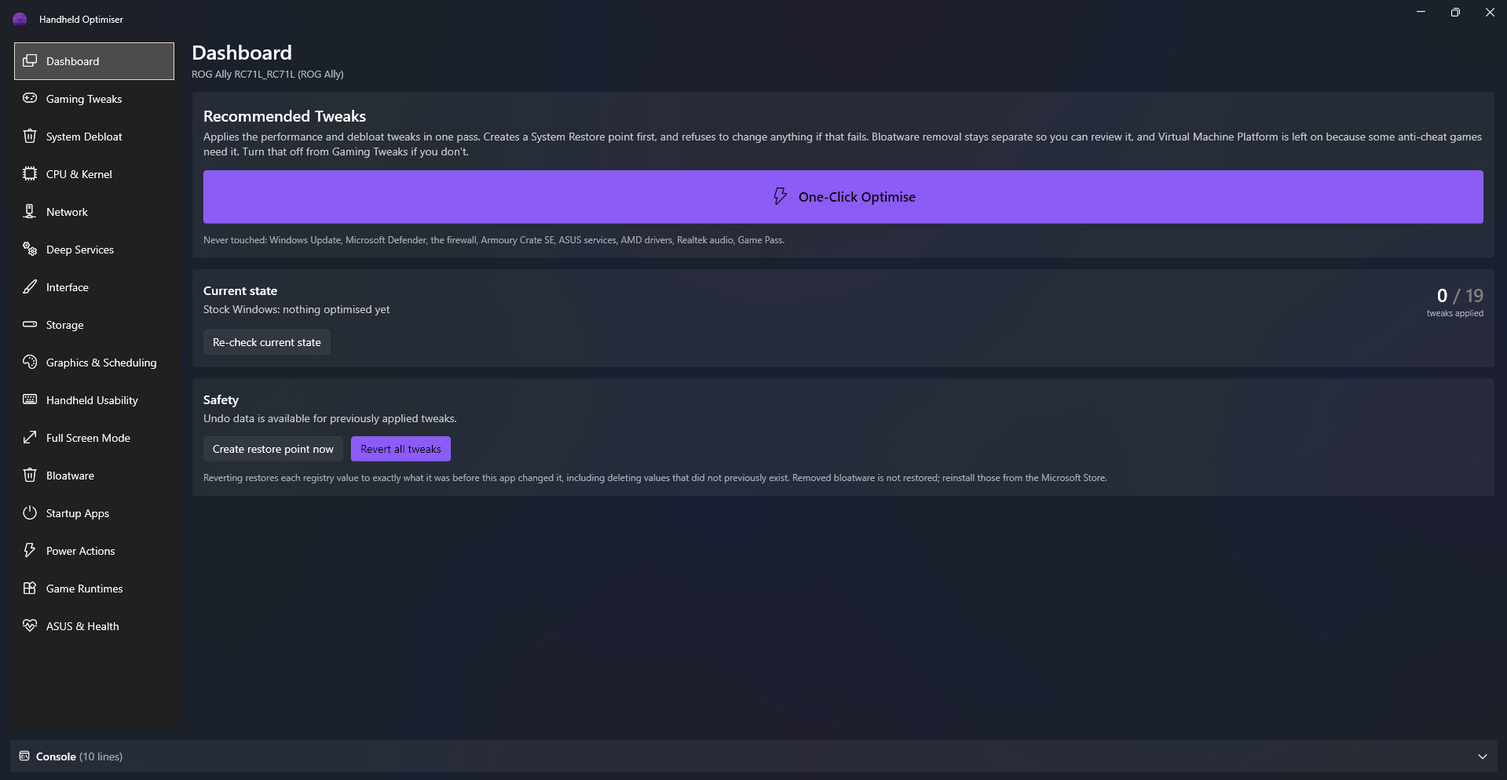
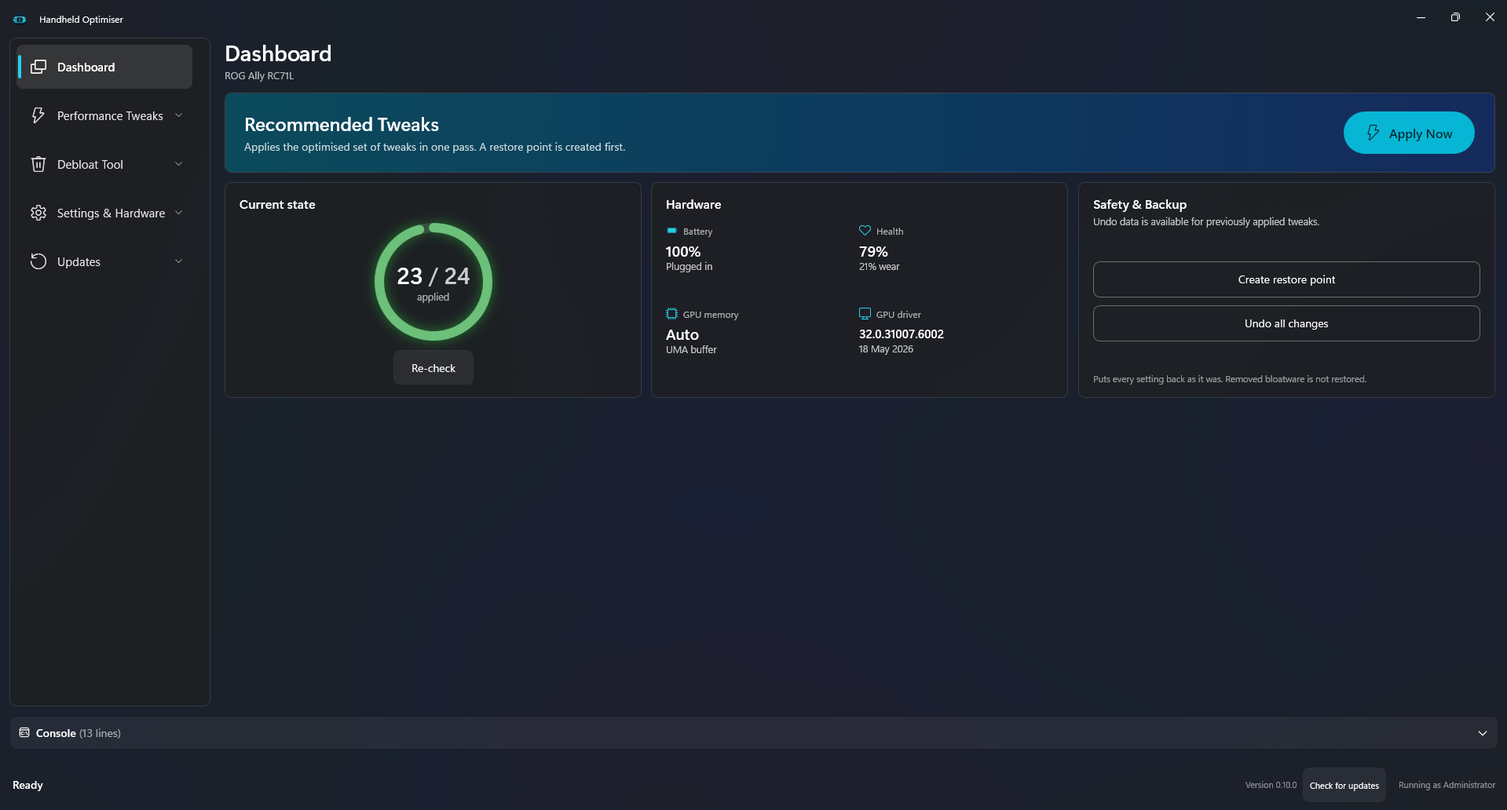
Shorten the README and replace its screenshots (#18)
The README is about a third of its length: the feature lists are tables and short bullets in place of a paragraph per feature. The dashboard screenshot shows the 0.10.0 sidebar and ring, a game library screenshot is added, and the Full Screen Mode screenshot, which showed the old four-option page, is removed.

diff --git a/README.md b/README.md
@@ -14,118 +14,89 @@
 </p>
 
 <p align="center">
-  <img src="docs/dashboard.png" alt="Handheld Optimiser dashboard with the Apply Now button, current state and safety options" width="900">
+  <img src="docs/dashboard.png" alt="Handheld Optimiser dashboard with the Apply Now button, the ring of applied tweaks, hardware readings and safety options" width="900">
 </p>
 
 ---
 
 ## What it does
 
-Windows ships set up for a desktop PC, not a 7-inch handheld. Handheld Optimiser applies the changes handheld owners usually make by hand from forum posts and scripts, from one touch-friendly app:
+Windows ships set up for a desktop PC, not a 7-inch handheld. Handheld Optimiser applies the changes handheld owners usually make by hand, from one touch-friendly app:
 
-- **Apply Now** on the Dashboard applies the recommended performance and debloat tweaks in a single pass.
-- **Individual toggles** for every tweak, grouped by area, each showing whether it is currently applied.
-- **Xbox mode home app**: make Windows' full screen experience open Steam Big Picture, Armoury Crate SE or any launcher you choose.
-- **One place for updates**: Windows Update, Microsoft Store apps and other apps, checked and updated together.
-- **Maintenance tools**: clear shader caches, free space with Compact OS, install missing game runtimes, and remove preinstalled apps.
+- **Apply Now** applies the recommended performance and debloat tweaks in a single pass.
+- **Individual toggles** for every tweak, each showing whether it is applied.
+- **A game library** for full screen mode, driven with the controller, that uses a fraction of Big Picture's memory.
+- **One place for updates**: Windows Update, Microsoft Store apps, other apps and game runtimes.
+- **Maintenance tools**: clear shader caches, free up space and remove preinstalled apps.
 
 ## Built to be undone
 
-Every system change goes through the same safety checks:
-
 - **A System Restore point is created first.** If Windows cannot create one, nothing is changed.
-- **Every tweak records the original setting**, so it can be reverted on its own or all at once with **Undo all changes** on the Dashboard, even after restarting or updating the app.
-- **Protected components are never touched**, whatever a tweak asks for: Windows Update, Microsoft Defender, the firewall, your handheld's own software (Armoury Crate SE and ASUS services, Legion Space and Lenovo services, MSI Center M), AMD and Intel drivers, Realtek audio and Game Pass. The one exception is the optional **Turn off update sharing with other PCs** switch, which changes a single Delivery Optimization setting; updates still download as normal.
-- **Trade-offs are shown up front.** Anything that lowers security or turns off a feature is labelled on its card and listed in the confirmation before it runs.
+- **Every tweak records the original setting**, so it can be reverted on its own or all at once with **Undo all changes**, even after a restart or an update.
+- **Protected components are never touched**: Windows Update, Microsoft Defender, the firewall, your handheld's own software, graphics and audio drivers, and Game Pass.
+- **Trade-offs are shown up front.** Anything that lowers security or turns off a feature is labelled and listed in the confirmation before it runs.
 
 ## Install
 
 1. Download **HandheldOptimiser-Setup-&lt;version&gt;.exe** from the [latest release](https://github.com/Vip3RAli/handheld-optimiser/releases/latest).
 2. Run it. Windows may show "Windows protected your PC" because the installer is not code-signed yet: choose **More info**, then **Run anyway**.
-3. Accept the administrator prompt. The app needs administrator rights to change system settings, so Windows asks each time it opens.
+3. Accept the administrator prompt. The app changes system settings, so Windows asks each time it opens.
 
-.NET is bundled, so nothing else needs installing. New versions install over the old one and keep your undo history.
+.NET is bundled. New versions install over the old one and keep your undo history.
 
-**Requirements:** Windows 10 (2004) or Windows 11, 64-bit. Full Screen Mode needs Windows 11 24H2 or later on a device with the Xbox full screen experience. Designed and tested on the ROG Ally. The app also recognises the ROG Xbox Ally, Lenovo Legion Go, MSI Claw, Steam Deck (running Windows), AYANEO, GPD and OneXPlayer handhelds, and the tweaks apply to any of them, but those devices have not been tested. A tweak that only fixes a fault on one device is badged with that device's name on any other.
+**Requirements:** Windows 10 (2004) or Windows 11, 64-bit. Full Screen Mode needs Windows 11 24H2 or later on a device with the Xbox full screen experience. Designed and tested on the ROG Ally. The ROG Xbox Ally, Legion Go, MSI Claw, Steam Deck (running Windows), AYANEO, GPD and OneXPlayer are recognised but untested.
 
-## Features
+## The app
 
-The sidebar has five sections, sized for a thumb on a handheld's touch screen. Tapping a section drops its pages down as a list under it, and a section reopens on the page you last used.
+Tap a section in the sidebar to drop down its pages.
 
 | Section | Pages |
 |---|---|
-| **Dashboard** | Apply Now, current state, hardware and safety |
+| **Dashboard** | Apply Now, how many recommended tweaks are applied, hardware readings, restore point and undo |
 | **Performance Tweaks** | Gaming Tweaks · CPU & Kernel · Graphics & Scheduling · Network · Storage · Sleep & Battery · Interface |
 | **Debloat Tool** | System Debloat · Deep Services · Bloatware · Startup Apps |
 | **Settings & Hardware** | Full Screen Mode · Power Actions · Device & System Health · Handheld Usability |
-| **Updates** | Updates (Windows Update, Microsoft Store apps and other apps in one list) · Game Runtimes |
+| **Updates** | Updates · Game Runtimes |
 
-### Dashboard
-A **Recommended Tweaks** banner with the **Apply Now** button, then three cards: a ring showing how many of the recommended tweaks are applied, the hardware readings, and the restore point and **Undo all changes** buttons.
+- **Apply Now** includes turning off **Memory Integrity**, usually the biggest frame rate gain on the Ally, at the cost of some protection against malicious drivers. The confirmation lists every trade-off first.
+- **Bloatware** removes preinstalled apps such as TikTok, Candy Crush and Copilot. Nothing is selected until you choose it.
+- **Power Actions** are one-off jobs: flush DNS, clear shader caches, deep cleanup and Compact OS.
+- **Device & System Health** checks that your handheld's own services are running and can re-enable any that other tools disabled.
+- **Updates** lists Windows, Store and winget updates together and installs the ones you tick. Driver updates are off unless you switch them on. Games, the BIOS and firmware are not listed.
 
-A **Hardware** card shows the battery's charge and live power draw in watts, its health (what it holds now against what it was built to hold), the memory set aside for graphics (the UMA buffer) and the installed graphics driver. It only reads; nothing on it changes a setting.
+## Full Screen Mode and the game library
 
-**Apply Now** includes turning off **Memory Integrity**, which is usually the biggest single frame rate gain on the Ally but lowers protection against malicious drivers. The confirmation lists it, and every other trade-off, before anything runs. Virtual Machine Platform is left on because some anti-cheat games need it.
-
-### Tweak pages
-
-| Page | Tweaks |
-|---|---|
-| **Gaming Tweaks** | Disable Memory Integrity (HVCI) · Disable Virtual Machine Platform & VBS · Disable Game DVR background recording · Remove the Windows startup delay |
-| **System Debloat** | Disable telemetry · Disable web results in Start search · Disable Cortana & Copilot · Stop app suggestions and silent reinstalls · Hide ads in Start, Settings and File Explorer · Turn off Widgets · Stop Edge running in the background · Turn off activity history and tailored experiences · Turn off Windows Error Reporting · Turn off OneDrive · Stop Store apps running in the background |
-| **CPU & Kernel** | Maximise foreground priority, so the game gets the CPU ahead of background work |
-| **Network** | Disable network throttling · Disable the network data usage monitor · Turn off update sharing with other PCs |
-| **Deep Services** | Disable SysMain, Search Indexer, Print Spooler & Fax, Program Compatibility Assistant, Distributed Link Tracking, and other services a handheld does not use |
-| **Interface** | Instant menus · Disable edge swipe gestures · Disable transparency and window animations |
-| **Storage** | Disable last access timestamps · Disable 8.3 short file names · Turn off reserved storage |
-| **Graphics & Scheduling** | Force Game Mode on · Optimise windowed and borderless games · Enable hardware-accelerated GPU scheduling |
-| **Handheld Usability** | Disable the Sticky Keys and Filter Keys shortcuts · Disable power throttling |
-| **Sleep & Battery** | Hibernate after 15 minutes of sleep · Turn Wi-Fi off during sleep · Only the power button wakes the handheld · Turn off the SD card reader (ROG Ally only) · Turn off Fast Startup |
-| **Full Screen Mode** | Choose the home app · Use Handheld Optimiser as the home app · Enter full screen mode at sign-in |
-
-### Full Screen Mode (Xbox mode home app)
-
-Windows 11's full screen experience normally opens the Xbox app. Handheld Optimiser can replace it with the app you actually use:
+Windows 11's full screen experience normally opens the Xbox app. Handheld Optimiser can open its own game library there, or Steam Big Picture, Armoury Crate SE or any other launcher.
 
 <p align="center">
-  <img src="docs/full-screen-mode.png" alt="Full Screen Mode page with the home app choices and the two toggles" width="900">
+  <img src="docs/game-library.jpg" alt="The game library with the Games, Apps and Not installed tabs, a row of game covers and the selected game's artwork as the background" width="900">
 </p>
 
-1. Open **Full Screen Mode** and choose **Handheld Optimiser library** or **Another launcher**. Another launcher then offers **Steam Big Picture**, **Armoury Crate SE**, or **Another app** (any program or shortcut, such as Playnite).
+1. Open **Full Screen Mode** and choose **Handheld Optimiser library** or **Another launcher**.
 2. Switch on **Use Handheld Optimiser as the full screen home app**.
 3. Optionally switch on **Enter full screen mode at sign-in** to boot straight into it like a console.
 
-Handheld Optimiser then appears under **Settings > Gaming > Xbox mode > Choose home app**. Your choice can be changed at any time and applies the next time the home app opens. If the chosen app cannot start, the Xbox app opens instead, so you never land on a blank screen.
+If the chosen app cannot start, the Xbox app opens instead. **Game Library** in the Start menu opens the library without changing your home app.
 
-#### Handheld Optimiser library
+The library finds installed games from **Steam**, **Xbox / PC Game Pass**, **Epic Games**, **Battle.net**, **GOG**, the **EA App** and **Ubisoft Connect**, plus programs you add and games in your ROM folders.
 
-A lightweight game library that replaces Big Picture as the home screen. It finds installed games from **Steam**, **Xbox / PC Game Pass**, **Epic Games**, **Battle.net**, **GOG**, the **EA App** and **Ubisoft Connect**, plus any program you add and the games in your ROM folders, shows them as one grid with your favourites and then the game you played last first, and is driven with the controller (d-pad or left stick to move, **A** to play, **Y** for quick settings) or by touch. The top bar shows the battery level, whether it is charging, and the Wi-Fi signal beside the clock.
+| Feature | What it does |
+|---|---|
+| **Tabs** | Games, Favourites, one per store, Apps and Not installed. **LB / RB** switch between them. |
+| **Quick settings** (**Y**) | Volume, brightness, power mode, resolution and refresh rate. |
+| **Quick actions** (**X**) | Favourite or hide a game, set its game profile, launch arguments or artwork. |
+| **Game profiles** | A power mode, resolution, refresh rate and brightness per game, put back when it closes. |
+| **Continue playing** | Your last game as a wide card above the grid, with play time tracked for every game. |
+| **Quick Resume** | The home button pauses the game behind the library, and **A** carries on where you left off. Games with anti-cheat are never paused. |
+| **Play and Sleep** | Close background programs and store apps around a game, and go back to your game after sleep. |
+| **Docked mode** | A layout and zoom of its own on a TV or monitor. |
+| **Not installed** | Games you own on Steam, Epic and GOG, ready to install. Steam needs your own free Web API key. |
+| **Game deals** | An optional row of games on sale, from IsThereAnyDeal with your own free API key. |
+| **Emulators** | Games from your ROM folders, including EmuDeck's and RetroBat's, in the emulator found for each console. |
+| **Quick Tweaks** | Clear temporary files, shader caches and the Recycle Bin, and switch startup apps. |
+| **Power** (**View**) | Sleep, hibernate, restart or shut down. |
 
-- **Game Library** in the Start menu opens it directly, without changing your full screen home app.
-- **LB / RB** filter the grid by store (Games, Favourites, Steam, Xbox and so on). The tabs can also be tapped. **Up** from the top row of games reaches the quick settings, settings and power buttons in the top bar, and **A** opens the one in focus; they are also on **Y**, **Menu** and **View**.
-- **X** on a game (or press and hold on touch) opens its quick actions: add it to favourites, set its game profile, set extra launch arguments, open the install folder, view the executable's properties, correct its background artwork, or hide it. Launch arguments apply to Steam and GOG games and to programs you added as an exe or a shortcut to one; the other stores start their games themselves and take none.
-- **Favourites** sit at the front of the grid with a star on their tile, and get their own tab in the store filter.
-- **Hide from library** takes a game off the grid, for launchers, tools and demos you never play. Switch on **Show hidden games** under **Settings > Library View Options** to see them again, faded, and choose **Show in library** to bring one back.
-- **Quick settings** (the sliders button in the top bar, or **Y**) work like Armoury Crate's Command Center: the volume (**A** mutes), the screen brightness, Windows' power mode (best power efficiency, balanced or best performance), the screen's resolution (a lower one, such as 1280 x 720, takes load off the graphics and stretches the battery) and its refresh rate, such as 60 or 120 Hz. Left and right adjust a row; **A** also steps it on, for touch. **Refresh library** looks for newly installed games (F5 on a keyboard does too). None of these needs administrator rights or ASUS software. Power mode is Windows' own setting, not Armoury Crate's wattage modes, and Windows only offers it while the Balanced power plan is active. Brightness only works on the built-in screen.
-- **Game profile** in a game's quick actions picks a power mode, resolution, refresh rate and brightness for that game, and whether background programs are closed while it plays. They switch over when the game starts from the library, and your own settings come back as soon as the game has closed. Anything left on **Don't change** stays as it is.
-- **Play time.** The library times every game it starts. Steam games also take Steam's own count, so their time goes back before the library. A game's quick actions show how long it has been played and when it was last played, and **Sort games** under **Settings > Library View Options** orders the grid by recently played, most played or A to Z.
-- **Continue playing.** The game you played last sits above the grid as a wide card with its artwork, with the few you played before it beside it, whatever order the grid is in. Up from the grid's first row reaches it. Switch it off under **Settings > Library View Options**.
-- **Two layouts.** **Layout** under **Settings > Library View Options** picks the grid, which scrolls down, or a row: one line of bigger games that scrolls across, with the focused game's name and play time above it, like a console's home screen.
-- **Play and Sleep** in the settings closes background programs as a game starts (OneDrive, Teams, Google Drive, Dropbox, Phone Link and Widgets to begin with; Discord, Spotify or any running program can be added) and opens them again once it has closed. Only programs running as you are closed, never Windows itself or a service. **Close background programs** in quick settings does the same on the spot. **Close store apps after playing** closes Steam, the Epic Games Launcher, the EA app and the rest once their game has closed, either only when the game opened them or always; Steam is asked to shut down, so it finishes syncing saves first. **Store apps at startup** stops them starting with Windows.
-- **Quick Resume.** Pressing the home button during a game pauses it while the library is in front, so it stops using the processor, the graphics and the battery. **A** on it (or on the Continue playing card) carries on exactly where you left off, and so does going back to it with Alt+Tab. A paused game still holds its memory, so only one is kept: starting another game asks for a second press, then closes the paused one first, and anything not saved in it is lost. **Close game** in its quick actions closes it on the spot. A paused game lives through sleep and hibernate, but not a restart or shut down. Games with anti-cheat (Easy Anti-Cheat, BattlEye, EA Javelin and others) are never paused, since pausing one could get you thrown off the server, and neither is a game running as administrator, which Windows will not let the library pause. Switch it off under **Settings > Play and Sleep**.
-- **Back to your game after sleep.** If a game is running when the device sleeps, waking it goes straight back to the game, even if you chose **Sleep** from the library's power menu. Pressing the home button after waking still lands on the library. Switch it off under **Settings > Play and Sleep**.
-- **Docked mode.** When the library is on a TV or monitor (docked, or the screen duplicated to one), it switches to a layout and size of its own, and back again when it is unplugged. By default it uses the row layout and fits itself to the screen, with as many games across as on the handheld; **Settings > Docked mode** picks the layout (row or grid) and a fixed zoom from 100% to 200%, or switches docked mode off.
-- **Games not installed.** A **Not installed** tab at the end of the tab strip (LB / RB) lists the games you own but have not installed, and **A** on one opens its store's install page: Steam's install dialog, the Epic Games Launcher, or the game's page in GOG Galaxy. Epic's and GOG Galaxy's lists are read from this device. Steam only lists the games you own through its Web API, so enter a free key from [steamcommunity.com/dev/apikey](https://steamcommunity.com/dev/apikey) under **Settings > Games not installed**; the list is asked for again at most twice a day, and your Steam profile's **Game details** must be public. Covers come from the stores' own image servers. Only the covers near the focus are kept in memory, so a library of thousands of games stays light.
-- **Game deals.** Switch on **Settings > Game deals** for a **Deals** row below the games on the Games tab, in the grid layout: games on sale at Steam, GOG, Epic, Humble, Fanatical and other stores, in your Windows region's currency, with the discount and a mark on prices that are the lowest ever. Prices come from [IsThereAnyDeal](https://isthereanydeal.com), which needs your own free API key: register an app at [isthereanydeal.com/apps/my](https://isthereanydeal.com/apps/my/) and paste its key under **Game deals**. The key stays on this device and is never part of the app. With **Wishlist deals first** on and a Steam Web API key set (see Games not installed), the games on your Steam wishlist that are on sale come first; Steam only shares a wishlist when your profile's **Game details** are public. **A** on a deal opens the store page in your browser. The deals are asked for when the library comes to the front with no game running, at most every 6 hours, and kept in `%LOCALAPPDATA%\HandheldOptimiser\deals` with their banners; nothing runs in the background, and the banners are let go while a game is in front.
-- **Emulators** in the settings lists games from ROM folders: a `ROMs` folder at the root of any drive or in your user folder, EmuDeck's and RetroBat's folders, and any folder you add. Inside, each console has its own folder named as EmuDeck, ES-DE and RetroBat name them (`snes`, `psx`, `ps2`, `gc` and so on). Each console plays in the first emulator found for it, standalone ones first (Dolphin, PCSX2, DuckStation, PPSSPP, Cemu, Ryujinx, Citron, Eden, Sudachi, melonDS, Azahar, Flycast, xemu) and then RetroArch with the best core it has; left and right on a console's row pick another. Emulators are looked for in the Start menu, your library, EmuDeck's and RetroBat's folders and the usual install folders, and **Find an emulator** points to one anywhere else. Multi-disc games with an `.m3u` playlist, and `.cue` games with their tracks, show once.
-- **Quick Tweaks** in the settings clears temporary files older than a day, the graphics drivers' shader caches and the Recycle Bin, each on a second press, shows free space on each drive, and switches startup apps on and off with the same switch Task Manager uses. Startup apps set for all users, and everything else that needs administrator rights, stay in the main app.
-- **Add a program** in the settings lists the programs in your Start menu, so an emulator or a game from another store can be added with the controller, or **Browse for a program** picks any exe or shortcut by touch or mouse. Added programs show under **Added by you**, get a cover from SteamGridDB like other games when a key is set, and **Remove from library** in their quick actions takes them off again. Nothing on disk is changed.
-- **Apps.** Programs that are not games, such as Chrome, Discord or Spotify, have their own **Apps** tab after the store tabs (LB / RB), away from the games. Add one from the Start menu with **Add a program** while the Apps tab is open, and it goes there. Well known apps (browsers, chat apps, media players and the stores' own launchers) go there wherever they are added from, including ones added before Apps existed. **Move to games** or **Move to Apps** in an added program's quick actions moves it across. Opening an app changes nothing else: no game profile, no closing of background programs, no play time, and it never shows in Continue playing, so a game you are playing is left as it is. Apps keep their own icon rather than a cover from SteamGridDB.
-- The power button beside the gear (or **View** on the controller) opens the power menu: sleep, hibernate, restart or shut down. Hibernate is listed only when it is switched on in Windows. Restart and shut down ask for a second press, so a stray button cannot end a session.
-- The background is a gradient in the colours of the selected game's cover or icon, worked out on the device with nothing downloaded.
-- The gear in the top bar (or **Menu** on the controller) opens the library's settings, a short list with groups behind their own rows. **Art and Background** has the background (game colours, game artwork or plain), how strong the colours are, how blurred the artwork is (off, light, medium or strong), whether it sits at the top or the bottom of the screen, and the SteamGridDB key. **Library View Options** has the layout, Continue playing, and on / off switches for the battery and Wi-Fi display, the store filter, the quick actions and showing hidden games. **Docked mode** and **Games not installed** are covered above. **B** steps back from a group, and each group also has a **Back** row for touch. The list also has **Play and Sleep**, **Emulators** and **Quick Tweaks** (see above), **Add a program** (see above), **Launch Handheld Optimiser** to bring up the main app (Windows asks for administrator permission; if the app is already open it just comes to the front), and **Quit** to close the library.
-- Choose game artwork there to show the game's whole banner artwork across the top or bottom of the screen, fading into its colours. Steam games use the artwork Steam already keeps on disk. For the other stores, enter a free [SteamGridDB](https://www.steamgriddb.com) API key and the library fetches each game's artwork once and keeps it in `%LOCALAPPDATA%\HandheldOptimiser\artwork`. Only then does the library contact SteamGridDB, sending the titles of those games to find them. Its other uses of the internet are the check for a newer release; for the Not installed tab, Steam's list of your games (only with your own key) and the stores' covers for games you have not installed; and, for the Deals row, IsThereAnyDeal's deals and banners and your Steam wishlist (only once switched on, with your own keys). A game with no artwork keeps its gradient. If a game gets the wrong picture or the wrong cover, **Background artwork** in its quick actions lets you give the title to look both up by.
-- **Box art for every store.** Steam games show the cover Steam keeps on disk. With a free [SteamGridDB](https://www.steamgriddb.com) API key entered, games from the other stores (Xbox and Game Pass, Epic, GOG, Battle.net, EA, Ubisoft) get a portrait cover too, in place of their icon. Covers are fetched once, a few at a time when the library opens, and kept in `%LOCALAPPDATA%\HandheldOptimiser\artwork`. This happens whatever background you chose: once a key is set, the titles of games without a cover are sent to SteamGridDB to find them. A game SteamGridDB has no cover for keeps its icon.
+Everything works with the controller or by touch. **Menu** opens the settings, and **Up** from the top row reaches the quick settings, settings and power buttons.
 
 | | RAM |
 |---|---|
@@ -133,72 +104,31 @@ A lightweight game library that replaces Big Picture as the home screen. It find
 | Library, open | about 115 MB |
 | Library, while a game runs | about 25 MB |
 
-Each store's own app still starts when one of its games needs it: Steam runs silently in the background (so Steam Input and the overlay still work), Epic opens minimised, Blizzard games go through Battle.net, and EA and Ubisoft games bring up the EA App and Ubisoft Connect. An EA or Ubisoft game bought on Steam or Epic is listed once, under the store it was bought from. Most GOG games are DRM-free and start directly, with no client at all. The library stays open behind the game, so quitting a game or pressing the home button lands back on it. While a game is in front, it stops reading the controller and gives its memory back to Windows.
+**Privacy.** The library only uses the internet to check for a newer release, and for the features you switch on with your own keys: artwork from [SteamGridDB](https://www.steamgriddb.com), your Steam game list and wishlist, store covers for games you have not installed, and deals from [IsThereAnyDeal](https://isthereanydeal.com). Keys stay on your device.
 
-Controller tips:
-
-- Keep the controller in **Gamepad** mode (Command Center in Armoury Crate SE). In Desktop mode the d-pad still works, as arrow keys, but the sticks turn into a mouse.
-- Steam can take over the Xbox button and third-party controllers while it runs. If the home button opens Steam, or an external controller moves the wrong way, turn off Steam's guide button setting under **Steam > Settings > Controller**, and turn off Steam Input for that controller.
-
-How it works: the app registers a small package that adds it to Windows' home app list and points at a lightweight launcher, which runs without administrator rights so full screen mode never shows a UAC prompt. Windows only accepts this kind of registration while developer mode is on and the package's certificate is trusted, so for the few seconds registration takes, developer mode is switched on and the certificate is trusted, then both are put back. No certificate is left installed. If Handheld Optimiser is closed midway, the next start finishes putting them back.
-
-**Updating from 0.4.0 or earlier:** those versions registered an unsigned package that Windows rejects after a restart, so full screen mode opened to a blank grey screen. Open **Full Screen Mode** and switch on **Use Handheld Optimiser as the full screen home app** once to replace it. If you are stuck on the grey screen, press Ctrl+Alt+Del, open Task Manager, choose **Run new task** and run `explorer` to get the desktop back.
-
-### Bloatware
-Remove preinstalled apps such as TikTok, Candy Crush, Disney+, Bing News and Copilot. Nothing is selected until you choose it, and apps you may want to keep are marked with a note. Store, Xbox, Game Pass, codec and vendor packages are protected.
-
-### Startup Apps
-Turn startup programs on or off, including 32-bit ones. Uses the same switch as Task Manager, so changes show up there too.
-
-### Power Actions
-One-off jobs, each run with a button:
-
-| Action | What it does |
-|---|---|
-| **Flush DNS & reset Winsock** | Fixes online games that cannot connect or suddenly lag |
-| **Clear shader caches** | Fixes stutter or graphical glitches after a driver update |
-| **Force deep cleanup** | Removes superseded Windows Update files, crash dumps and error reports |
-| **Compact OS** | Compresses Windows system files to free a few GB for games |
-| **Undo Compact OS** | Reverses it, after checking there is enough free space |
-
-### Game Runtimes
-Scans for the Visual C++, DirectX, .NET, XNA, OpenAL and PhysX runtimes games depend on, and installs or updates them through winget.
-
-### Device & System Health
-Checks that your handheld's own services (Armoury Crate on a ROG Ally, Legion Space on a Legion Go, MSI Center M on an MSI Claw) and the AMD, Realtek, Defender, Windows Update and Game Pass services are running, and can re-enable any that were disabled by other tools.
-
-### Updates
-Checks Windows Update, the Microsoft Store and winget at the same time and lists every waiting update in one place, ticked. **Update selected** installs them one after another: apps through winget first, then Store apps, then Windows updates, and says at the end if a restart is needed.
-
-- **Windows Update** uses the same Windows Update service as Settings. Optional preview updates are left out. Driver updates are only listed with **Include driver updates** switched on, because Windows Update sometimes offers a generic driver in place of the one the handheld's maker ships.
-- **Microsoft Store apps** are updated by the Store itself, which the page asks to update each chosen app. If the Store can't be asked from the app, the section says so and **Open the Store** takes you to its updates page.
-- **Other apps** are the desktop apps winget recognises, such as Steam, Discord and browsers. A System Restore point is made before any of them are updated. Apps winget doesn't know about don't appear.
-- **Skip** on a row leaves that update out of every check until you unskip it under **Skipped updates**.
-
-Games are not listed: Steam and the other launchers update their own. Neither are the BIOS or ASUS firmware, which Armoury Crate or MyASUS still handle.
+**Controller tips.** Keep the controller in **Gamepad** mode. If the home button opens Steam, turn off Steam's guide button setting under **Steam > Settings > Controller**.
 
 ## Updating
 
-From 0.3.0, the app checks for a newer release each time it starts, and **Check for updates** in the status bar checks on demand. When one is available, a banner offers **Update now**: the app downloads the installer, checks its signature, installs it and reopens by itself. Your applied tweaks and undo history are kept.
-
-From 0.7.1, the game library shows the same banner, and looks for a newer release when it opens and about once a day while it stays open. It only asks GitHub for the latest version number. **Update now** there (also the first row of the library's settings on the controller) opens the main app, which asks for administrator permission and then installs the update as above. The library never downloads or runs an installer itself.
-
-Every release is signed with the developer's own key, and the app refuses to install anything whose signature does not match, even a file that has been swapped on GitHub. Versions before 0.3.0 have no updater, so install 0.3.0 by hand once.
+The app checks for a newer release when it starts, and the library does the same. **Update now** downloads the installer, checks its signature, installs it and reopens. Your tweaks and undo history are kept. Every release is signed with the developer's key, and the app refuses anything whose signature does not match.
 
 ## Uninstalling
 
-Uninstall from **Settings > Apps > Installed apps**. Uninstalling removes the app but **does not undo tweaks**; use **Undo all changes** first if you want Windows put back as it was. Your undo history is kept, so reinstalling later can still revert everything. If Handheld Optimiser was your full screen home app, Windows goes back to the Xbox app.
+Uninstall from **Settings > Apps > Installed apps**. This removes the app but **does not undo tweaks**; use **Undo all changes** first if you want Windows put back as it was. Your undo history is kept, so reinstalling later can still revert everything.
 
 ## FAQ
 
 **Why does Windows ask for administrator permission every time?**
-Almost every change the app makes is machine-wide, so Windows requires it. The full screen home app launcher is separate and never asks.
+Almost every change the app makes is machine-wide. The game library is separate and never asks.
 
 **Why does Windows warn that the installer is unrecognised?**
-The installer is not signed with a paid code-signing certificate yet. The SHA-256 hash of each installer is listed in its release notes if you want to verify your download.
+The installer is not signed with a paid code-signing certificate yet. Each release lists the installer's SHA-256 hash if you want to verify your download.
 
 **Something went wrong. What do I do?**
-Use **Undo all changes** on the Dashboard, or roll back with the System Restore point the app created. Each session is logged to `%LOCALAPPDATA%\HandheldOptimiser\logs`, which is the most useful thing to attach to an issue.
+Use **Undo all changes** on the Dashboard, or roll back with the System Restore point the app created. Logs are in `%LOCALAPPDATA%\HandheldOptimiser\logs`; attach them to an issue.
+
+**Full screen mode opens to a blank grey screen.**
+This affected 0.4.0 and earlier. Open **Full Screen Mode** and switch on **Use Handheld Optimiser as the full screen home app** once to fix it.
 
 ## Building from source
 
@@ -209,31 +139,17 @@ winget install --id JRSoftware.InnoSetup -e --scope user
 .\installer\build-installer.ps1
 ```
 
-This publishes a self-contained build, packs the full screen home app registration, and writes `artifacts\HandheldOptimiser-Setup-<version>.exe`. The version comes from `<Version>` in `src\HandheldOptimiser\HandheldOptimiser.csproj`.
+This writes `artifacts\HandheldOptimiser-Setup-<version>.exe`. The version comes from `<Version>` in `src\HandheldOptimiser\HandheldOptimiser.csproj`. Run the tests with `dotnet test`; they never touch the real registry, services or packages.
 
-Run the tests with `dotnet test`. They cover undo and the protected lists, and run against an in-memory registry and undo journal, so they never touch the real registry, services or packages. GitHub Actions builds and tests every push to `main` and every pull request.
-
-### Signing releases for the in-app updater
-
-If the update signing key is present, the build script also writes `HandheldOptimiser-Setup-<version>.exe.sig` and checks it against the public key built into the app. Upload **both files** to the release; without the `.sig`, the updater tells users to install that release by hand.
-
-The key is managed with `tools\UpdateSigner` and never goes in the repository:
-
-```powershell
-dotnet run --project tools\UpdateSigner -- keygen                  # once; prints the public key for Services\UpdateService.cs
-dotnet run --project tools\UpdateSigner -- export-backup key.pem   # password-protected backup; keep it off this PC
-dotnet run --project tools\UpdateSigner -- import-backup key.pem   # restore on a new PC
-```
-
-It is stored in `%APPDATA%\HandheldOptimiser-Signing`, encrypted to your Windows account. If it is lost, installed copies can no longer verify updates, and everyone has to install the next release by hand once.
+If the update signing key is present, the script also writes a `.sig` file. Upload both files to the release, or the in-app updater will not install it. The key is managed with `tools\UpdateSigner` (`keygen`, `export-backup`, `import-backup`) and never goes in the repository.
 
 | Folder | Contents |
 |---|---|
-| `src/HandheldOptimiser` | The WPF app. Tweaks are declared in `TweakDefinitions/`; `Services/TweakEngine.cs` applies them with the restore point and undo journal, and `Services/SafetyGuard.cs` holds the protected list |
-| `src/HandheldOptimiser.HomeLauncher` | The small launcher Windows starts as the full screen home app |
-| `installer` | Inno Setup script, build script, and the home app registration package in `HomeApp/` |
-| `tests/HandheldOptimiser.Tests` | xUnit tests for revert (`TweakEngine`) and the protected lists (`SafetyGuard`) |
-| `tools/UpdateSigner` | Creates the update signing key and signs installers; release tooling only, never shipped |
+| `src/HandheldOptimiser` | The WPF app: tweak definitions, the tweak engine and the protected list |
+| `src/HandheldOptimiser.HomeLauncher` | The launcher and game library Windows starts as the full screen home app |
+| `installer` | Inno Setup script, build script and the home app registration package |
+| `tests/HandheldOptimiser.Tests` | xUnit tests for undo, the protected lists and the library |
+| `tools/UpdateSigner` | Creates the update signing key and signs installers; never shipped |
 
 ## Credits
 
